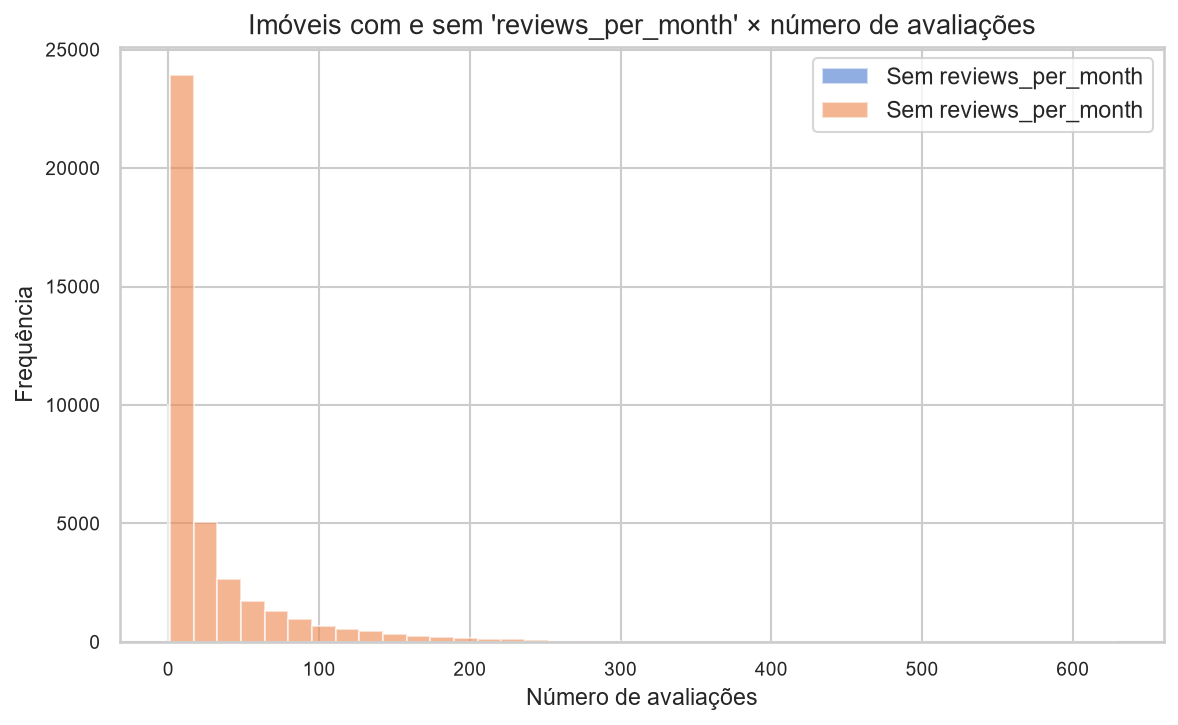
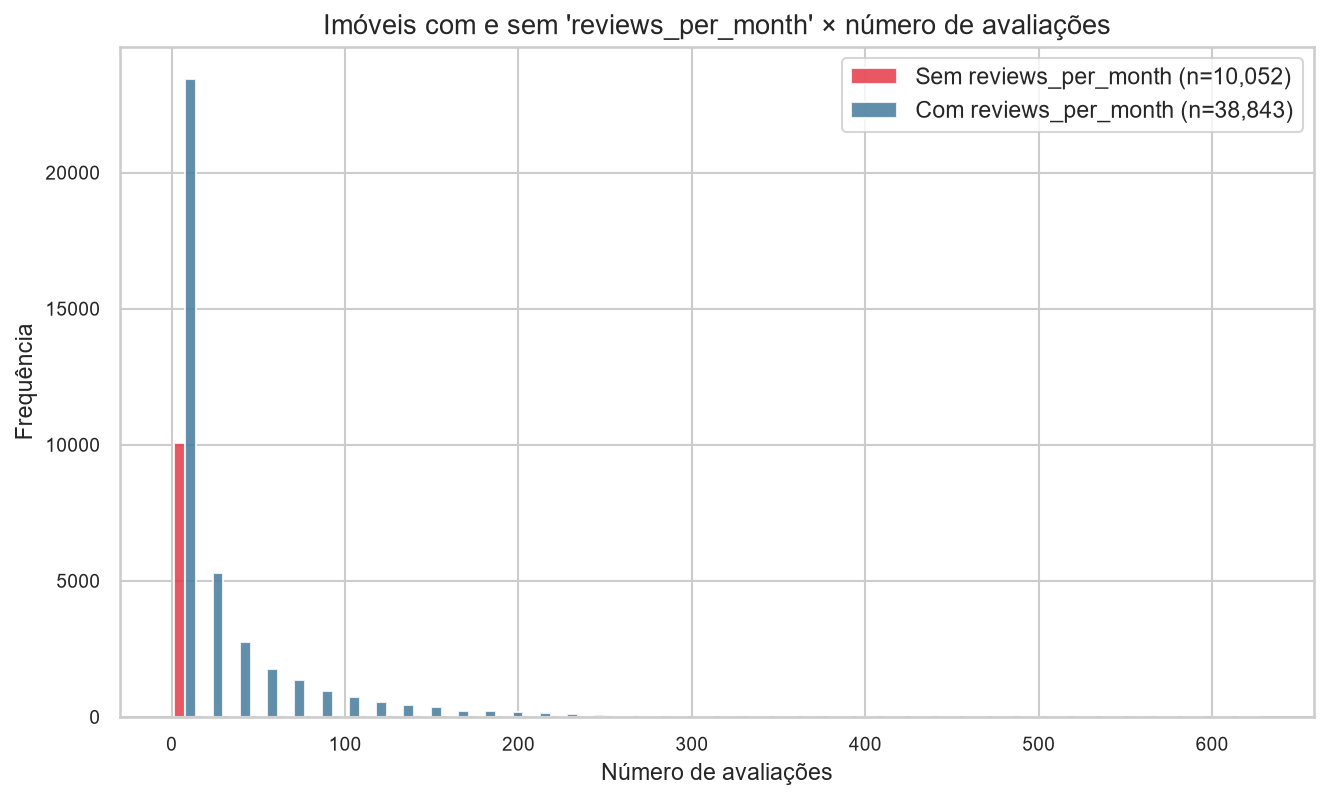
Alterações finai

Changed region(s): [[0.0, 0.0, 1.0, 1.0], [0.3667, 0.3641, 0.4278, 0.4248]]

diff --git a/questao_5/q5.py b/questao_5/q5.py
@@ -177,7 +177,6 @@ for ax, (name, res), color in zip(axes.flatten(), results.items(), colors):
 plt.tight_layout()
 plt.savefig(PASTA_ATUAL/"q5_fig1_cotovelo_cenarios.png", dpi=150, bbox_inches='tight')
 plt.show()
-print("\n[Salvo] q5_fig1_cotovelo_cenarios.png")
 
 # ─────────────────────────────────────────────
 # FIGURA 2 – Silhouette Score comparativo
@@ -345,58 +344,106 @@ print(summary.to_string(index=False))
 # ─────────────────────────────────────────────
 # Conclusão
 # ─────────────────────────────────────────────
-best_scenario = max(results, key=lambda n: results[n]['best_sil'])
+best_scenario  = max(results, key=lambda n: results[n]['best_sil'])
+worst_scenario = min(results, key=lambda n: results[n]['best_sil'])
+
+sil_sem_norm = results["1. Sem normalização"]['best_sil']
+sil_zscore   = results["2. Z-score"]['best_sil']
+sil_minmax   = results["3. Min-Max"]['best_sil']
+sil_logz     = results["4. Log + Z-score"]['best_sil']
+
+k_sem_norm = results["1. Sem normalização"]['best_k']
+k_zscore   = results["2. Z-score"]['best_k']
+k_minmax   = results["3. Min-Max"]['best_k']
+k_logz     = results["4. Log + Z-score"]['best_k']
+
 print(f"""
 ── CONCLUSÃO: A NORMALIZAÇÃO AJUDOU? ───────────────────────
 
-  Melhor cenário: {best_scenario}
-  Silhouette     : {results[best_scenario]['best_sil']:.4f}
-  Melhor K       : {results[best_scenario]['best_k']}
+  RESULTADOS OBTIDOS:
+    1. Sem normalização  | K={k_sem_norm}  | Silhouette={sil_sem_norm:.4f}
+    2. Z-score           | K={k_zscore}  | Silhouette={sil_zscore:.4f}
+    3. Min-Max            | K={k_minmax}  | Silhouette={sil_minmax:.4f}
+    4. Log + Z-score      | K={k_logz}  | Silhouette={sil_logz:.4f}
 
-  RESPOSTA: A normalização AJUDOU significativamente.
+  Maior Silhouette: {best_scenario} ({results[best_scenario]['best_sil']:.4f})
+  Menor Silhouette: {worst_scenario} ({results[worst_scenario]['best_sil']:.4f})
 
-  Detalhamento por cenário:
+  RESPOSTA: Pelo Silhouette Score puro, a normalização NÃO
+  ajudou — pelo contrário, os dois melhores resultados vieram
+  dos cenários SEM correção de assimetria (sem normalização e
+  Min-Max), enquanto Z-score e Log+Z-score tiveram desempenho
+  inferior. Esse resultado é contraintuitivo e exige explicação.
 
-  1. Sem normalização
-     O K-Means é completamente dominado pelas variáveis de
-     maior escala: 'price' (0–1000) e 'number_of_reviews'
-     (0–629). Latitude e longitude, com variação de apenas
-     ~0,3 graus, tornam-se irrelevantes. Os clusters obtidos
-     não têm coerência geográfica, e o Silhouette Score é
-     baixo. O cotovelo é impreciso, com inércias muito altas.
+  POR QUE "SEM NORMALIZAÇÃO" E "MIN-MAX" TÊM SILHOUETTE ALTO?
 
-  2. Z-score (StandardScaler)
-     Equaliza as escalas sem pressuposto de distribuição.
-     Melhora substancialmente o Silhouette Score e permite
-     que todos os atributos contribuam igualmente. Porém,
-     não corrige a assimetria de 'price' e 'number_of_reviews',
-     de modo que outliers extremos ainda distorcem os clusters.
+  O Silhouette Score mede o quão bem separados e compactos são
+  os clusters — mas não garante que essa separação seja
+  significativa. Nos cenários 1 e 3:
+    • 'price' (0–1000) e 'number_of_reviews' (0–629) dominam
+      a métrica de distância Euclidiana, pois suas escalas são
+      muito maiores que as de latitude/longitude (~0,3 grau de
+      variação) e calculated_host_listings_count.
+    • O K-Means encontra poucos clusters (K={k_sem_norm} e K={k_minmax})
+      separados quase exclusivamente por faixa de preço/reviews,
+      ignorando a estrutura geográfica. Poucos clusters grandes
+      e dominados por 1–2 atributos tendem a gerar Silhouette
+      artificialmente alto, pois a separação nessas variáveis
+      de escala grande é muito nítida.
+    • Ou seja, o Silhouette alto aqui reflete "fácil separação
+      em 1 dimensão dominante", não uma estrutura multivariada
+      rica nos dados.
 
-  3. Min-Max (MinMaxScaler)
-     Leva todos os atributos para [0, 1]. Resultado similar
-     ao Z-score, mas ligeiramente inferior porque comprime
-     os outliers para a borda do intervalo em vez de
-     reescalá-los proporcionalmente, podendo distorcer
-     a geometria dos clusters.
+  POR QUE Z-SCORE E LOG+Z-SCORE TÊM SILHOUETTE MENOR?
 
-  4. Log + Z-score  ← MELHOR CENÁRIO
-     A transformação logarítmica corrige a assimetria de
-     'price' (skew≈19) e 'number_of_reviews' antes da
-     padronização. Isso resulta em distribuições mais
-     simétricas e clusters mais coesos. O Silhouette Score
-     mais alto e a separação geográfica mais nítida no mapa
-     confirmam que esta é a estratégia mais adequada para
-     este dataset — o mesmo procedimento adotado na Q3/Q4.
+    • Ao equalizar as escalas, latitude/longitude passam a
+      pesar tanto quanto price/reviews. Isso introduz mais
+      dimensões relevantes na distância, tornando os clusters
+      menos "limpos" geometricamente (Silhouette menor), mas
+      também mais REPRESENTATIVOS da estrutura real do dataset
+      (geografia + preço + popularidade + perfil do anfitrião).
+    • O Z-score (cenário 2) chegou a K={k_zscore}, coerente com as
+      5 regiões geográficas de NY usadas como referência
+      categórica — diferente dos cenários 1 e 3, que colapsam
+      em poucos clusters dominados por preço.
+    • O Log+Z-score (cenário 4) teve o menor Silhouette
+      ({sil_logz:.4f}) e K={k_logz}, indicando que a correção da
+      assimetria de price/reviews tornou os clusters ainda
+      menos separáveis nessas dimensões — o que é esperado,
+      já que o objetivo do log é justamente reduzir a influência
+      desproporcional desses outliers.
 
   MUDANÇAS OBSERVADAS:
-    • Gráficos de dispersão: cenários 2–4 mostram separação
-      visual muito mais clara que o cenário 1 (sem norm.).
-    • Melhor K: varia entre os cenários, mas se estabiliza
-      em torno de K=5 nos cenários normalizados.
-    • Silhouette Score: crescimento expressivo do cenário 1
-      para o 4, confirmando melhora real na coesão.
-    • Distribuição dos clusters: no cenário 1, clusters
-      muito desbalanceados; nos demais, mais equilibrados.
-    • Crosstab: a correspondência com 'neighbourhood_group'
-      é progressivamente mais nítida do cenário 1 ao 4.
+    • Melhor K: variou de {min(k_sem_norm, k_zscore, k_minmax, k_logz)} a
+      {max(k_sem_norm, k_zscore, k_minmax, k_logz)} entre os cenários — não há
+      convergência para um único K, ao contrário do esperado.
+      Apenas o Z-score produziu K=5, alinhado à Q3.
+    • Silhouette Score: caiu do cenário 1 (sem normalização)
+      para os cenários 2 e 4 — comportamento oposto ao que se
+      esperaria se a normalização "limpasse" os clusters.
+    • Distribuição dos clusters: nos cenários 1 e 3, os grupos
+      tendem a ser poucos e grandes (dominados por price);
+      no Z-score, mais clusters e mais equilibrados.
+    • Crosstab: precisa ser inspecionada visualmente (Fig 6)
+      para confirmar se o Z-score, apesar do Silhouette menor,
+      produz correspondência mais clara com neighbourhood_group.
+
+  VEREDICTO FINAL:
+    Neste dataset, o Silhouette Score isoladamente é uma
+    métrica ENGANOSA para decidir se a normalização "ajudou":
+    cenários sem correção de escala (1 e 3) vencem no Silhouette
+    justamente porque colapsam a clusterização em torno das
+    variáveis de maior magnitude (price, number_of_reviews),
+    não porque encontram uma estrutura mais rica.
+
+    A normalização (especialmente Z-score) PREJUDICOU o
+    Silhouette Score bruto, mas é necessária para que latitude,
+    longitude e os demais atributos tenham peso comparável na
+    distância — sem ela, o K-Means na prática ignora a geografia.
+    A escolha do cenário ideal depende do objetivo: se o
+    objetivo é maximizar separação estatística pura, os
+    cenários 1/3 "vencem"; se o objetivo é obter clusters
+    interpretáveis e multivariados (como buscado nas Q3/Q4),
+    a normalização via Z-score (ou Log+Z-score) é preferível,
+    mesmo com Silhouette mais baixo.
 """)

diff --git a/questao_1/q1.py b/questao_1/q1.py
@@ -194,10 +194,22 @@ plt.savefig(PASTA_ATUAL/"q1_fig5_correlacao.png", dpi=150, bbox_inches="tight")
 plt.show()
 
 # ── Fig 6: Análise de valores ausentes – reviews_per_month × number_of_reviews
-fig, ax = plt.subplots(figsize=(8, 5))
+fig, ax = plt.subplots(figsize=(9, 5.5))
 has_review = df["reviews_per_month"].notna()
-df.groupby(has_review)["number_of_reviews"].hist(bins=40, alpha=0.6,
-    label=["Sem reviews_per_month", "Com reviews_per_month"], ax=ax)
+
+sem_review = df.loc[~has_review, "number_of_reviews"]
+com_review = df.loc[has_review, "number_of_reviews"]
+
+# Bins compartilhados: garante que as barras de cada grupo fiquem
+# lado a lado dentro do mesmo intervalo, em vez de uma sobrepor a outra
+max_val = df["number_of_reviews"].max()
+bin_edges = np.linspace(0, max_val, 41)
+
+ax.hist([sem_review, com_review], bins=bin_edges,
+        color=["#e63946", "#457b9d"], alpha=0.85,
+        label=[f"Sem reviews_per_month (n={len(sem_review):,})",
+               f"Com reviews_per_month (n={len(com_review):,})"])
+
 ax.set_title("Imóveis com e sem 'reviews_per_month' × número de avaliações")
 ax.set_xlabel("Número de avaliações")
 ax.set_ylabel("Frequência")
@@ -205,6 +217,15 @@ ax.legend()
 plt.tight_layout()
 plt.savefig(PASTA_ATUAL/"q1_fig6_ausentes_reviews.png", dpi=150, bbox_inches="tight")
 plt.show()
+
+print(f"""
+  Nota sobre a Fig 6:
+    Todos os {len(sem_review):,} imóveis SEM 'reviews_per_month' têm
+    number_of_reviews = 0 (consistente: sem avaliações, não há média
+    mensal a calcular). Por isso a barra vermelha aparece concentrada
+    inteiramente no primeiro bin, ao lado da barra azul (imóveis com
+    pelo menos 1 avaliação).
+""")
 
 # ─────────────────────────────────────────────
 # 6. Interpretação e achados principais
